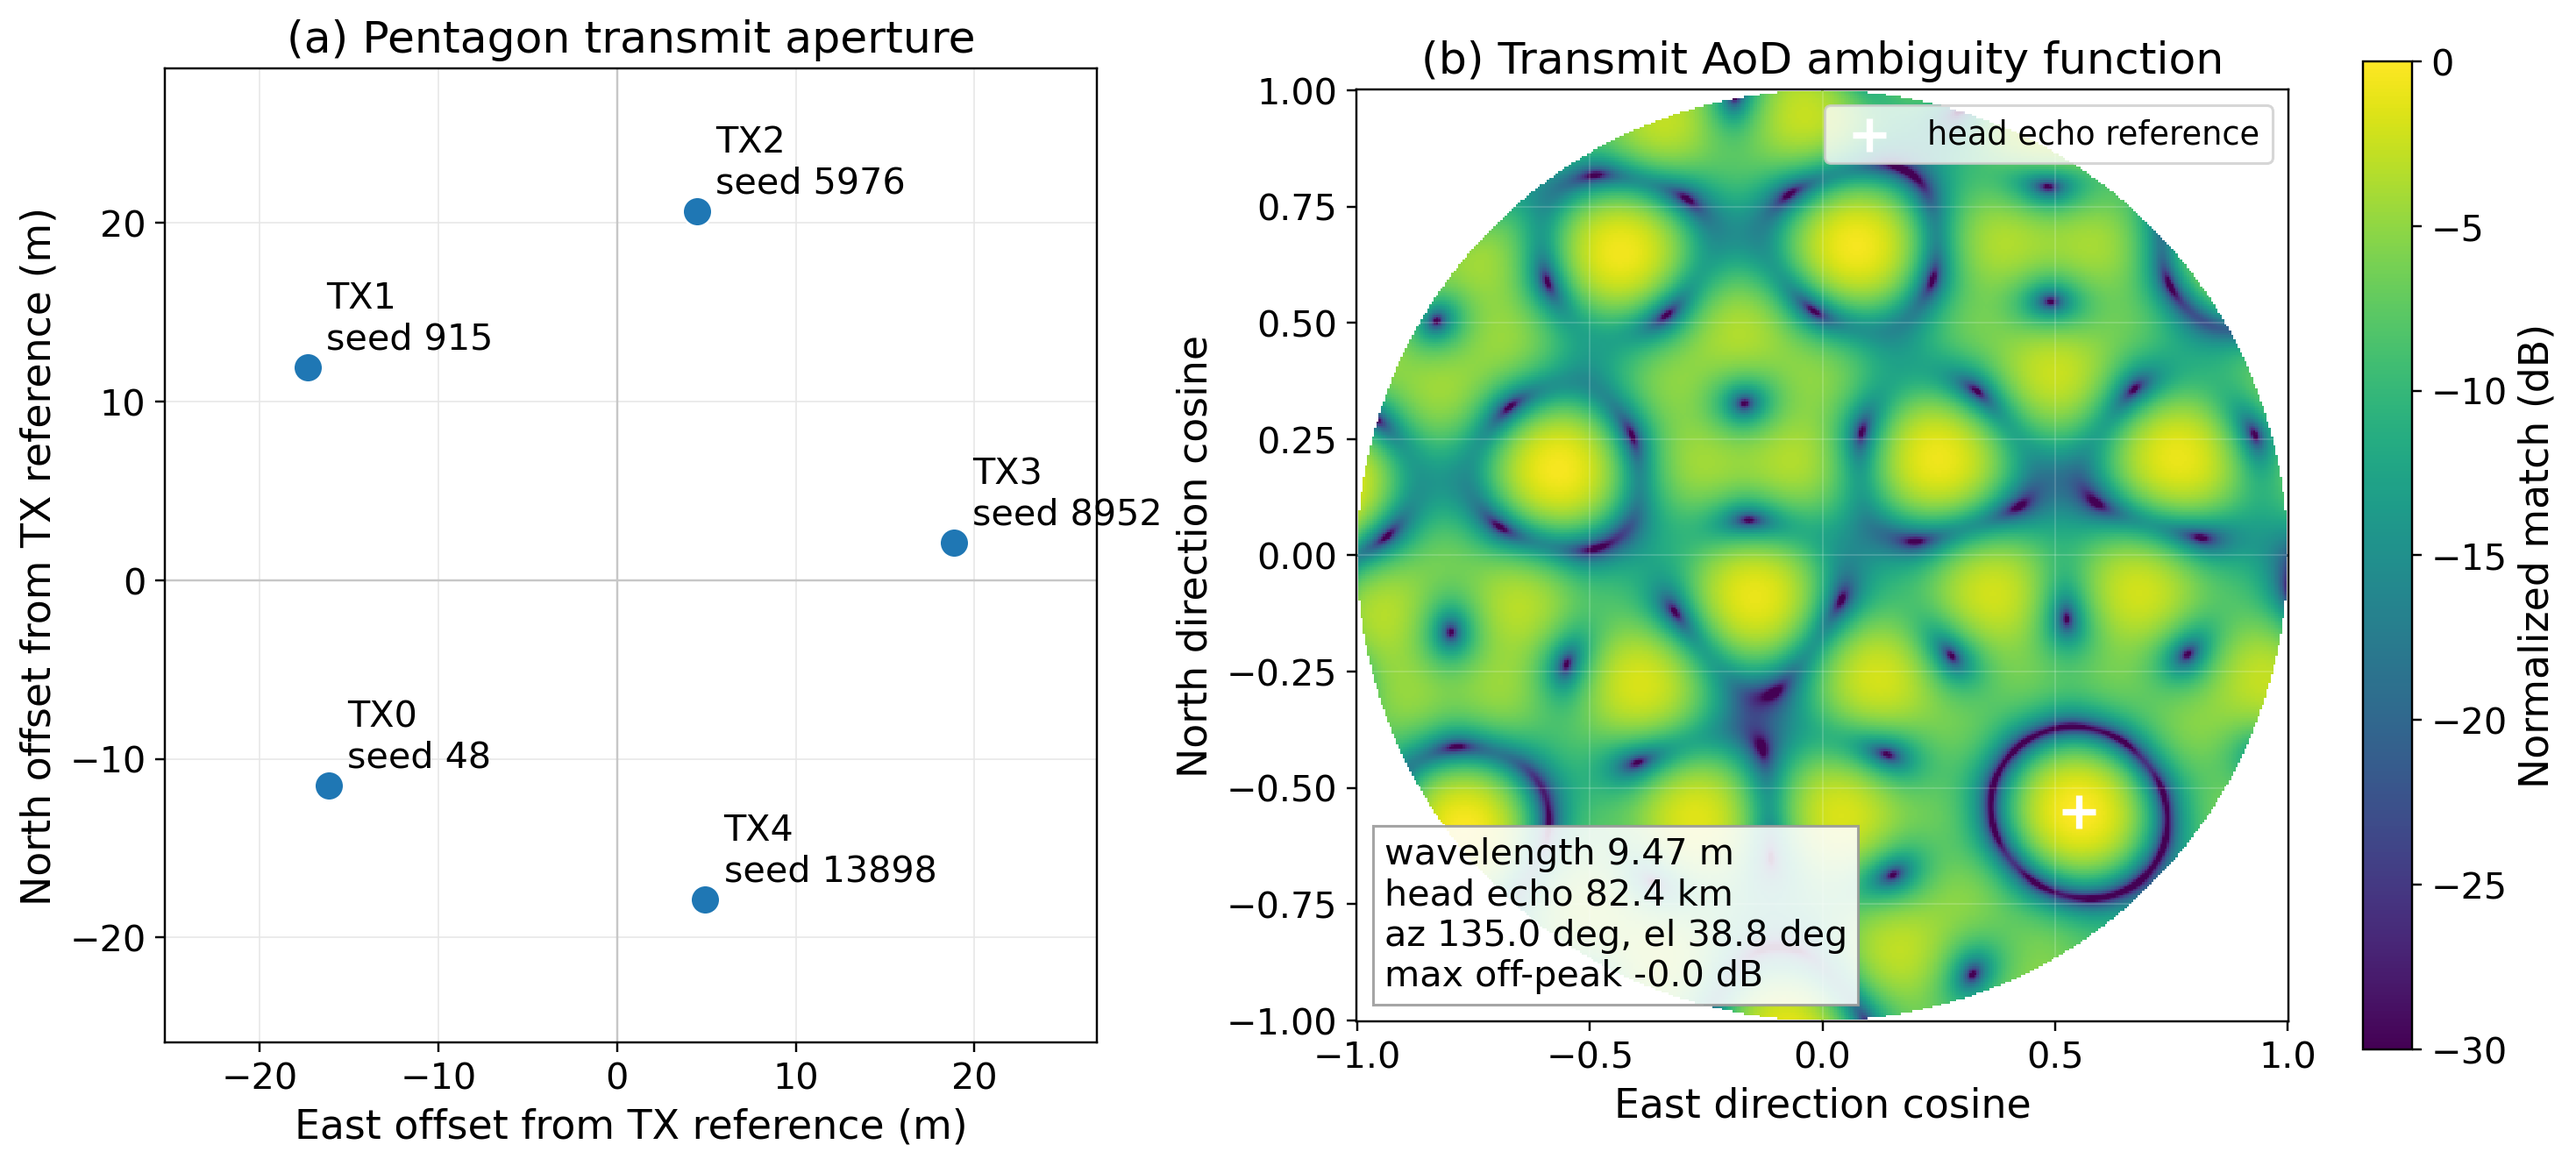
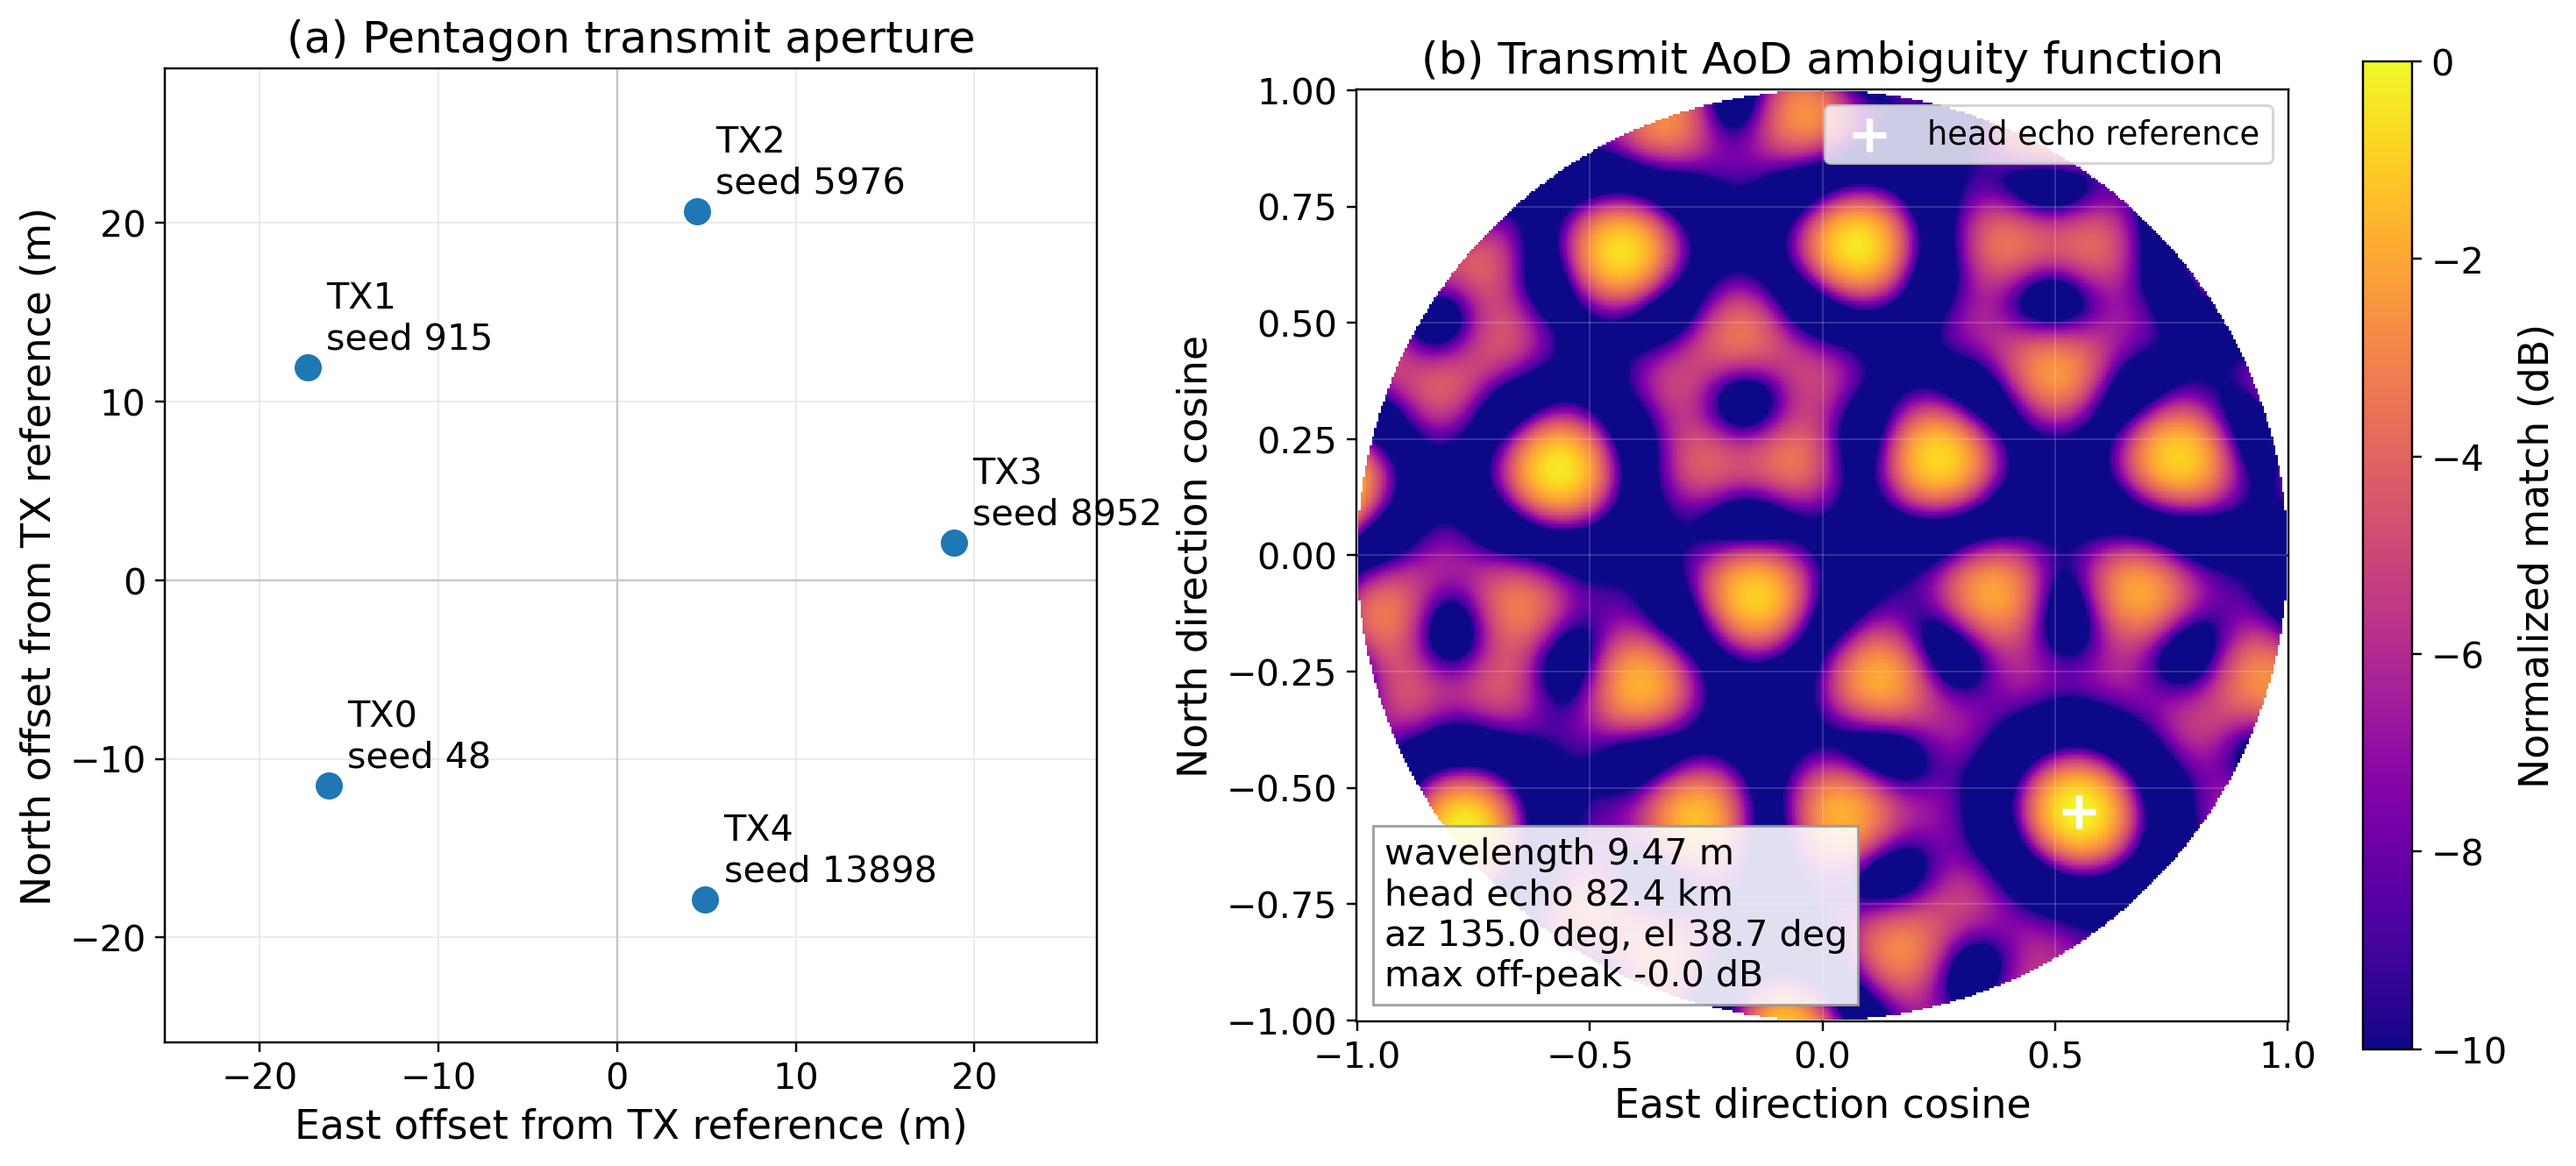
Adjust AoD match figure color scale

Changed region(s): [[0.5265, 0.0617, 0.9912, 0.894]]

diff --git a/reports/generate_station_config_assets.py b/reports/generate_station_config_assets.py
@@ -134,7 +134,7 @@ def plot_tx_antennas(tx) -> Path:
 
         ax = axes[1]
         east, north, z, ref, ref_meta, wavelength, sidelobe = aod_match_grid(tx)
-        mesh = ax.pcolormesh(east, north, z, shading="auto", cmap="viridis", vmin=-30.0, vmax=0.0)
+        mesh = ax.pcolormesh(east, north, z, shading="auto", cmap="plasma", vmin=-10.0, vmax=0.0)
         ax.scatter([ref[0]], [ref[1]], marker="+", s=160, color="white", linewidth=2.4, label="head echo reference")
         ax.set_aspect("equal", adjustable="box")
         ax.set_xlabel("East direction cosine")
@@ -203,7 +203,7 @@ def plot_aod_match_function(tx, grid_size: int = 421) -> Path:
     }
     with plt.rc_context(font):
         fig, ax = plt.subplots(figsize=(7.4, 6.8), constrained_layout=True)
-        mesh = ax.pcolormesh(east, north, z, shading="auto", cmap="viridis", vmin=-30.0, vmax=0.0)
+        mesh = ax.pcolormesh(east, north, z, shading="auto", cmap="plasma", vmin=-10.0, vmax=0.0)
         ax.scatter([ref[0]], [ref[1]], marker="+", s=160, color="white", linewidth=2.4, label="head echo reference")
         ax.set_aspect("equal", adjustable="box")
         ax.set_xlabel("East direction cosine")
